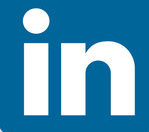
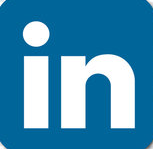
updated readme

diff --git a/README.md b/README.md
@@ -42,7 +42,11 @@ I'm a Middle Software Engineer at AppsFlyer, a full-stack developer, a cloud eng
 
 ### Get in touch with me!
 
-[![](assets/linkedin.jpg)](https://www.linkedin.com/in/yevheniia-borovskova-759830212)
+<a href="https://www.linkedin.com/in/yevheniia-borovskova-759830212" target="blank">
+     <img src="assets/linked-in.png" alt="react-native" style="width: 40px;
+    height: 40px;
+    object-fit: contain;" />
+</a>
 
 <!--
 **Borovskova/Borovskova** is a ✨ _special_ ✨ repository because its `README.md` (this file) appears on your GitHub profile.
